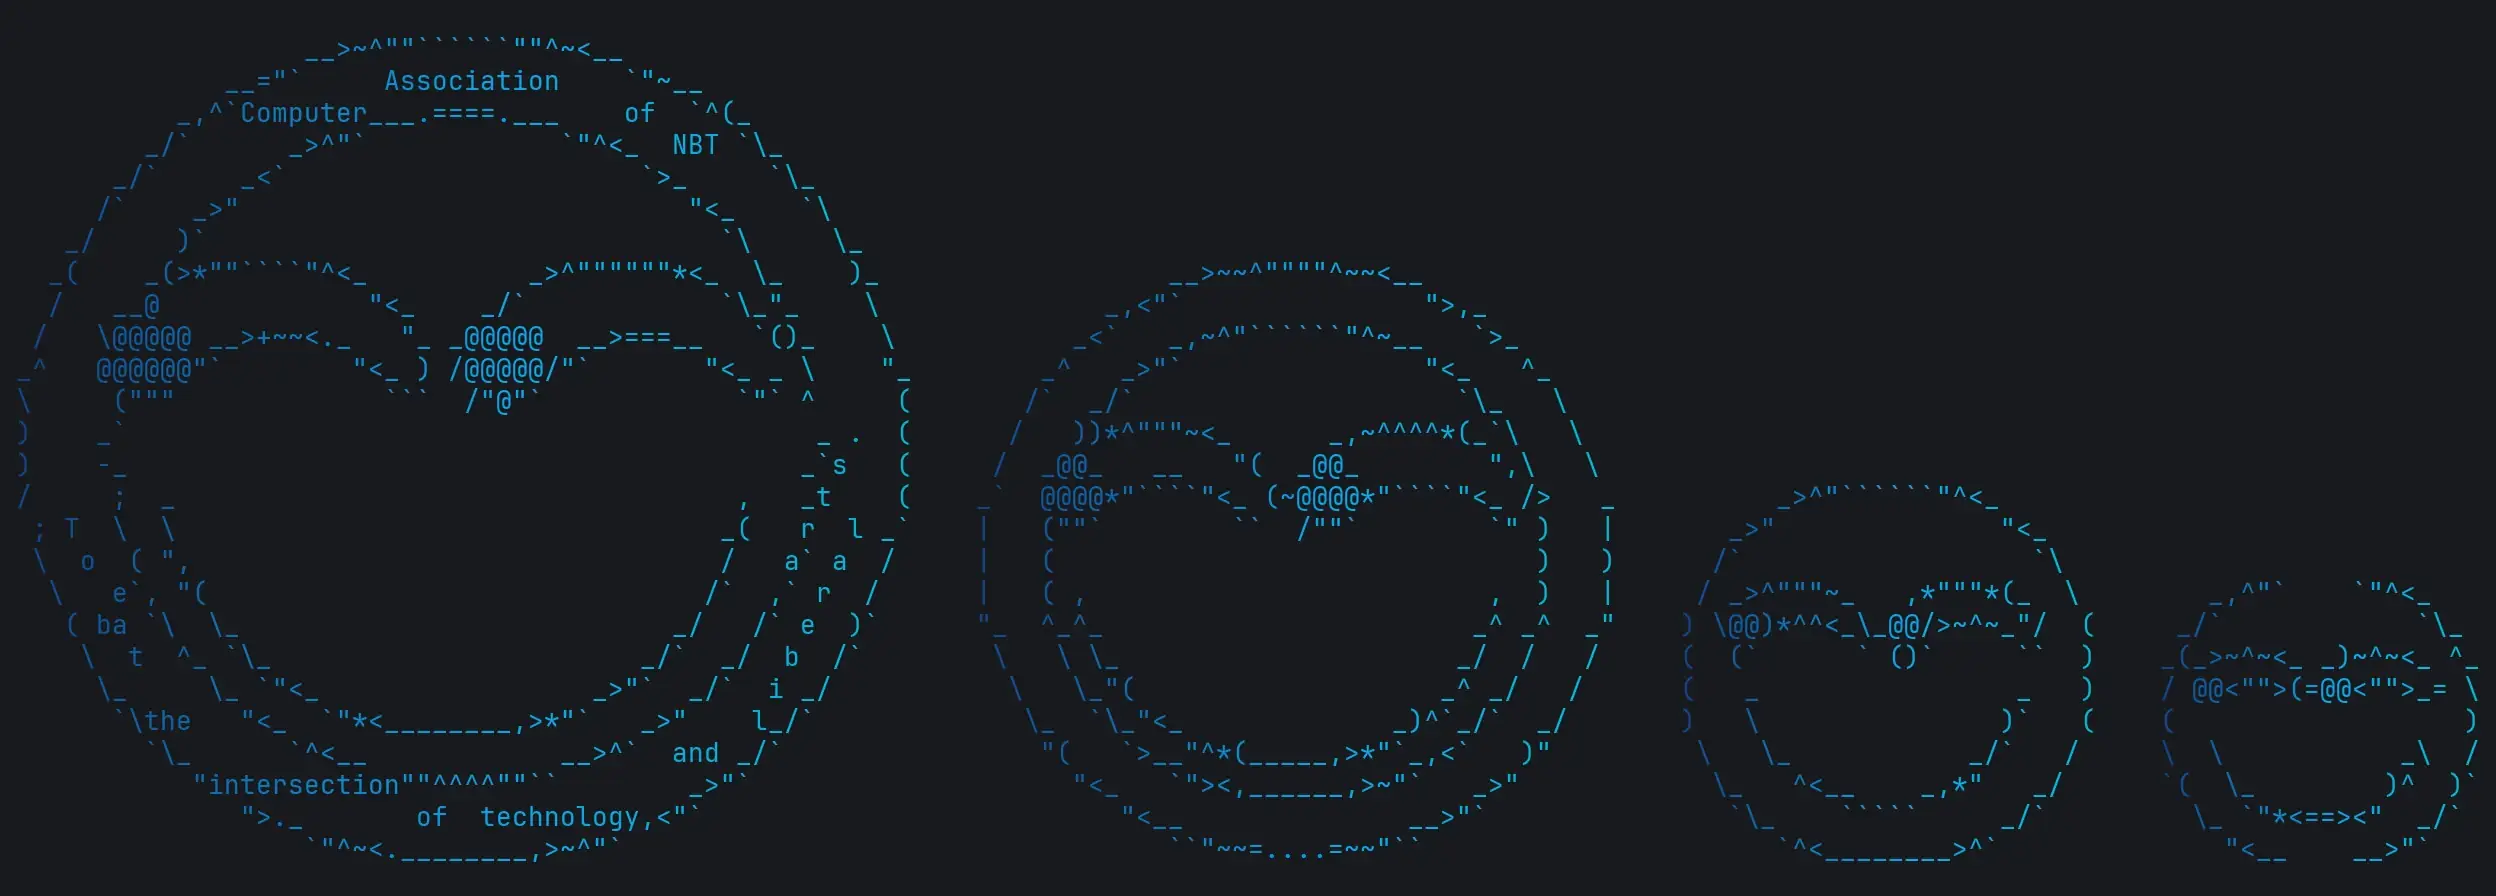
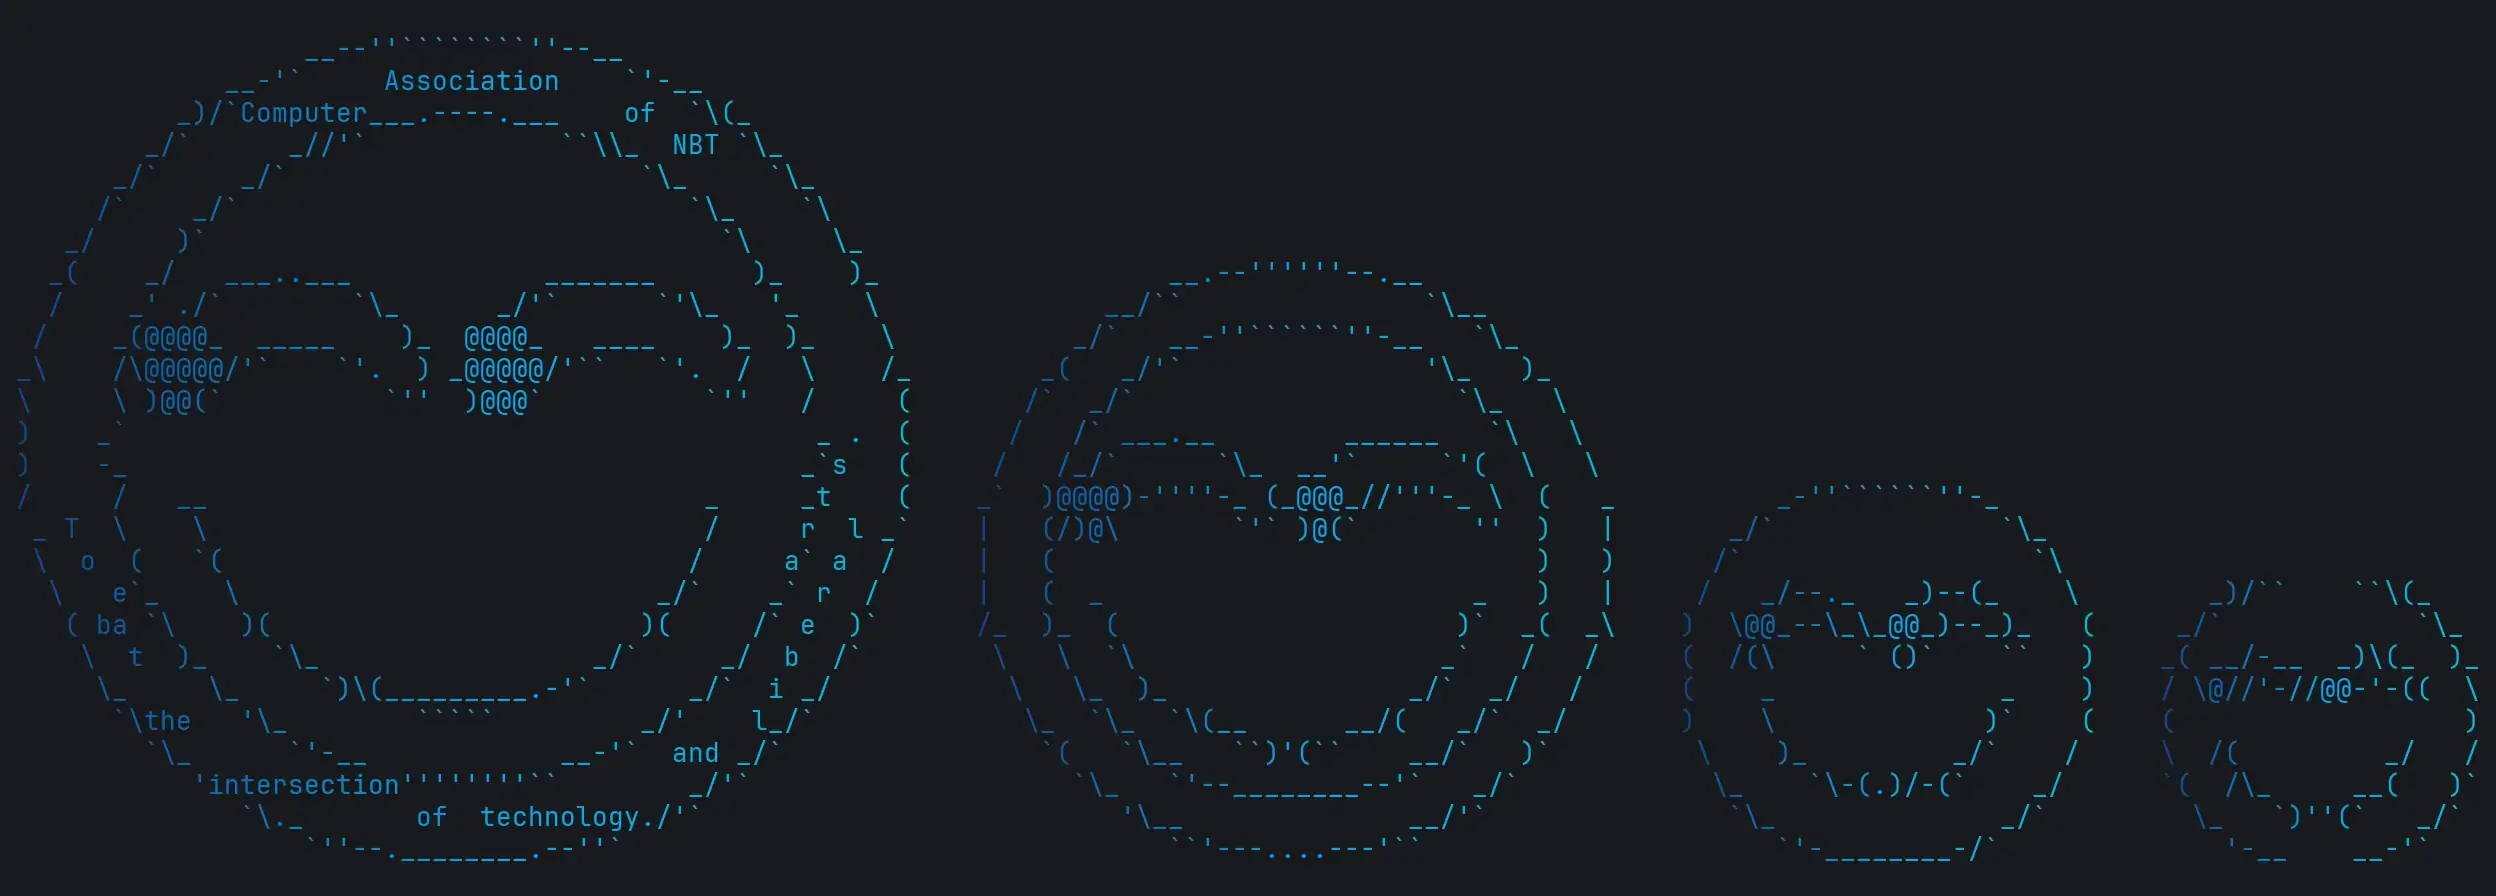
docs: describe the limited glyph set and face deformation

diff --git a/src/pages/posts/ascii-art-and-tui-design.md b/src/pages/posts/ascii-art-and-tui-design.md
@@ -277,7 +277,15 @@ fzf 每输入一个字符就重新过滤一次候选项，[预览窗口](https:/
 
 要把会徽还原到这个程度，我们走了三遍。社团的会徽是一张经典的“滑稽”脸：外面两圈，圈中间写着一圈小字，里面是两只月牙形的眼睛，瞳孔偏向外侧，下面一道笑弧。第一遍，我们把 Braille 点阵缩小，按每一格的明暗从一串由疏到密的字符里挑一个，这是明暗式。圆环粗细不均，眼睛糊成一团。第二遍改成逐格挑笔画最接近的字符，好了一些，但眼睛的轮廓还是对不上，小号则是我们手画的一张笑脸，和会徽几乎没有关系。
 
-两遍都有同一个毛病：它们拿 Braille 点阵当原图，而点阵本身已经是会徽的一份有损的拷贝。第三遍我们回到了社团的 SVG。会徽几乎全是线条，所以先把线条细化成接近字符笔画的粗细，圆环按半径直接画，眼睛和笑弧从 SVG 里取，只有瞳孔保持实心，两圈之间的那圈字先拿掉。然后不再一格一格孤立地挑字符，而是让整个网格的渲染结果和原图尽量接近：用 JetBrains Mono 把每个候选字符渲染出来，两边都做一次高斯模糊，逐格挑能让整体误差最小的字符，反复扫几遍，让相邻格子的笔画接得上。眼睛和笑弧的误差权重是圆环的三倍，因为脸才是会徽的辨识点。`@` 只允许出现在瞳孔那样的实心处，其余格子只用 `^` `'` `_` `|` 这类细字符沿着线走。
+两遍都有同一个毛病：它们拿 Braille 点阵当原图，而点阵本身已经是会徽的一份有损的拷贝。第三遍我们回到了社团的 SVG，并且照着前辈的做法改了三件事。
+
+第一件，会徽几乎全是线条，所以先把线条细化成接近字符笔画的粗细，圆环按半径直接画，眼睛和笑弧从 SVG 里取，只有瞳孔保持实心，两圈之间的那圈字先拿掉。
+
+第二件，限制字符。第一次自动拟合时我们放开了二十多个标点，圆环里混进了 `;` `,` `"`，笔画很不统一。Amiga 艺术家 Skin 说他从不用超过十个字符，我们也收到十一个：空格、`.` `'` `` ` `` `-` `_` `|` `/` `\` `(` `)`，再加只给瞳孔用的 `@`。圆环马上干净了。
+
+第三件，变形。会徽里的笑弧离内环只有一格多，字符画分不出两条贴得这么近的线，笑弧被吞进了内环。Xu 等人说艺术家会把原图略微变形，我们就把整张脸缩小到原来的九成，笑弧和内环之间空出了一行，眼睛的瞳孔也不再压在圆环上。这不是原图的样子，但认出来的是同一张脸。
+
+匹配的方式也变了。不再一格一格孤立地挑字符，而是让整个网格的渲染结果和原图尽量接近：用 JetBrains Mono 把每个候选字符渲染出来，两边都做一次高斯模糊，逐格挑能让整体误差最小的字符，反复扫几遍，让相邻格子的笔画接得上。眼睛和笑弧的误差权重是圆环的三倍，因为脸才是会徽的辨识点。
 
 最大的一档还要把那圈字写回去，这一步试了三种做法。原图的字是沿圆周旋转的，ASCII 的字形转不了，所以字母必须直立。第一种是沿圆弧一格放一个字母，圆弧在方格里只能走成台阶，一个词被拆成几截，“Computer”变成了“Compu”和“ter”。第二种参照微缩书写，让外圈本身由字母 NBTCA 重复构成，结果满圈都是零碎的字母，比圆环还乱，放弃了。第三种参照前面那条“允许变形”的经验：把圆弧近似成一段段直线，每个词在自己所在的位置排成一条整齐的直线，横排、斜排或竖排里挑偏离空带最少的一种。上半圈写 Computer Association of NBT，下半圈写 To be at the intersection of technology and liberal arts.，都从左往右读，到了侧面就沿着圆弧向上斜排，和印章上的字一样。这些格子最先定下来，再让圆环绕着它们去拟合。中号以下的空带只有一行多高，放不下字，就不写了。
 
